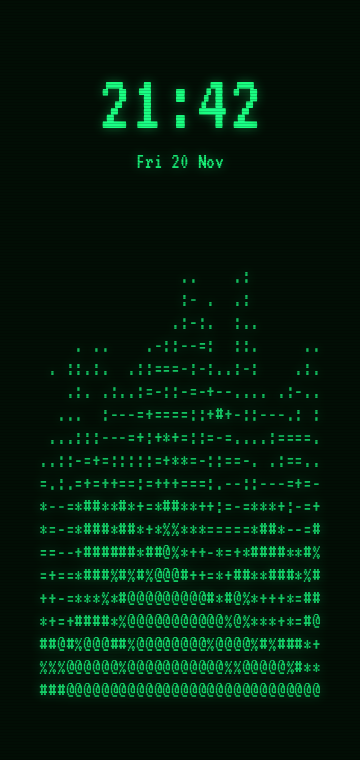
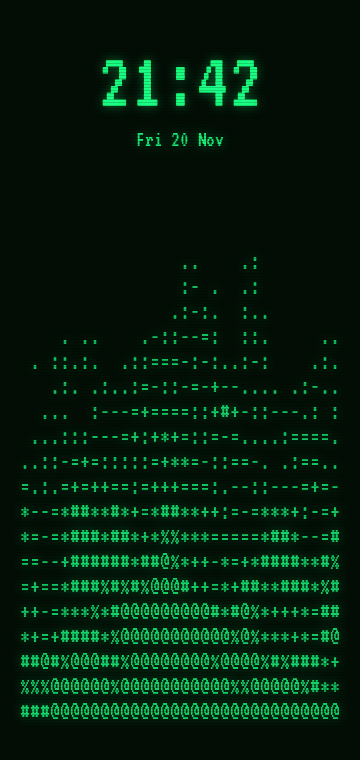
Fire and cube: drop rows the art never reaches, so they sit centred

diff --git a/app/src/main/java/com/asnidev/sysreadout/cover/AsciiAnim.kt b/app/src/main/java/com/asnidev/sysreadout/cover/AsciiAnim.kt
@@ -22,6 +22,8 @@ object AsciiAnim {
     /** Frames per second each look is drawn at; the battery cost follows. */
     const val FPS = 10
     private const val LIFE_STEP_MS = 200L
+    private const val FIRE_SKIP = 3
+    private const val CUBE_SKIP = 3
     private const val GLIDER_EVERY = 12
     private val GLIDER = listOf(1 to 0, 2 to 1, 0 to 2, 1 to 2, 2 to 2)
 
@@ -40,7 +42,8 @@ object AsciiAnim {
                 rows[y][x] = ramp(heat)
             }
         }
-        return withClock(rows, d, top = true)
+        // The top of the grid is mostly cold air; the flames keep the lower rows.
+        return withClock(rows.copyOfRange(FIRE_SKIP, H), d, top = true)
     }
 
     fun starfield(d: CoverData, ms: Long): CoverFrame {
@@ -124,7 +127,8 @@ object AsciiAnim {
             if (abs(a1 - a2) + abs(b1 - b2) + abs(c1 - c2) == 2.0) line(rows, p[i], p[j])
         }
         p.forEach { (x, y) -> put(rows, x.roundToInt(), y.roundToInt(), '+') }
-        return withClock(rows, d, top = false, below = true)
+        // Rows the turning cube never reaches stay out, so it sits centred over the clock.
+        return withClock(rows.copyOfRange(CUBE_SKIP, H - CUBE_SKIP), d, top = false, below = true)
     }
 
     /** Drops slide down the glass at their own speeds and leave short trails. */
